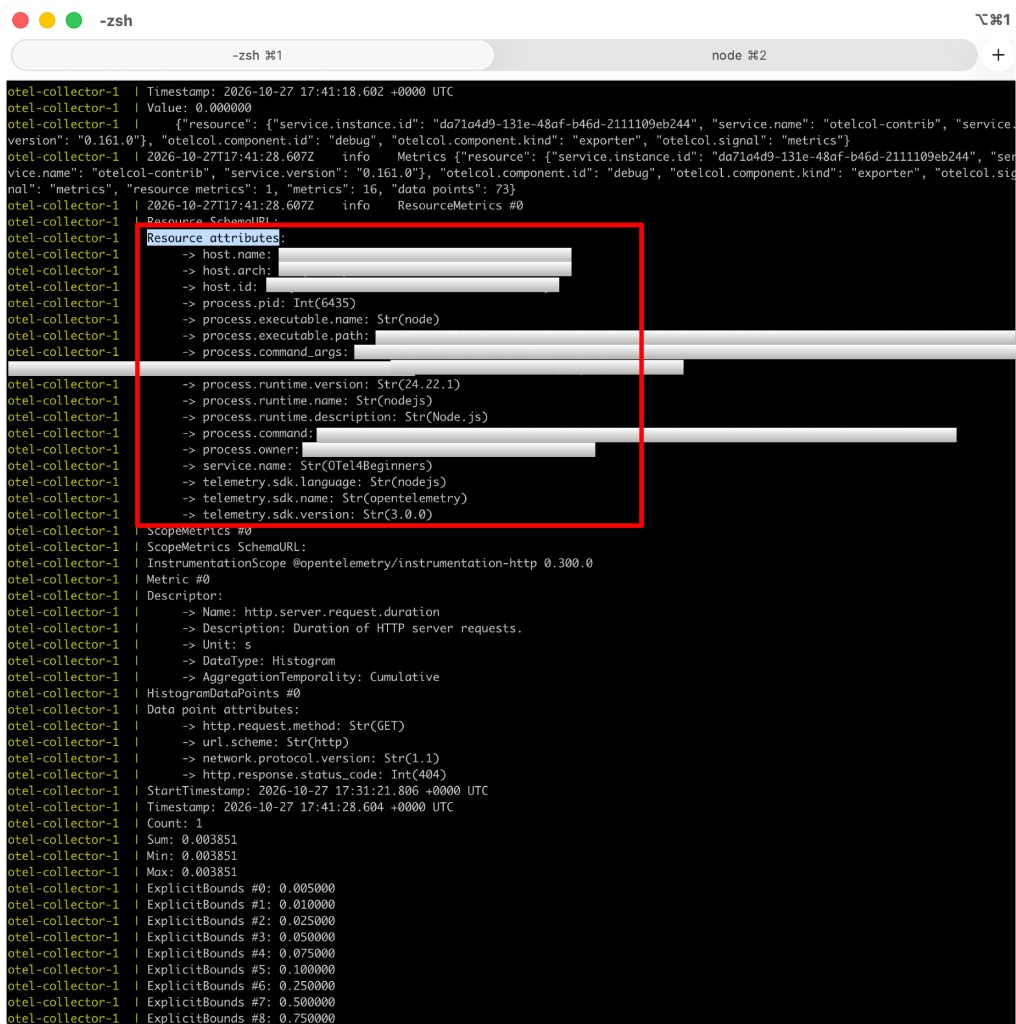
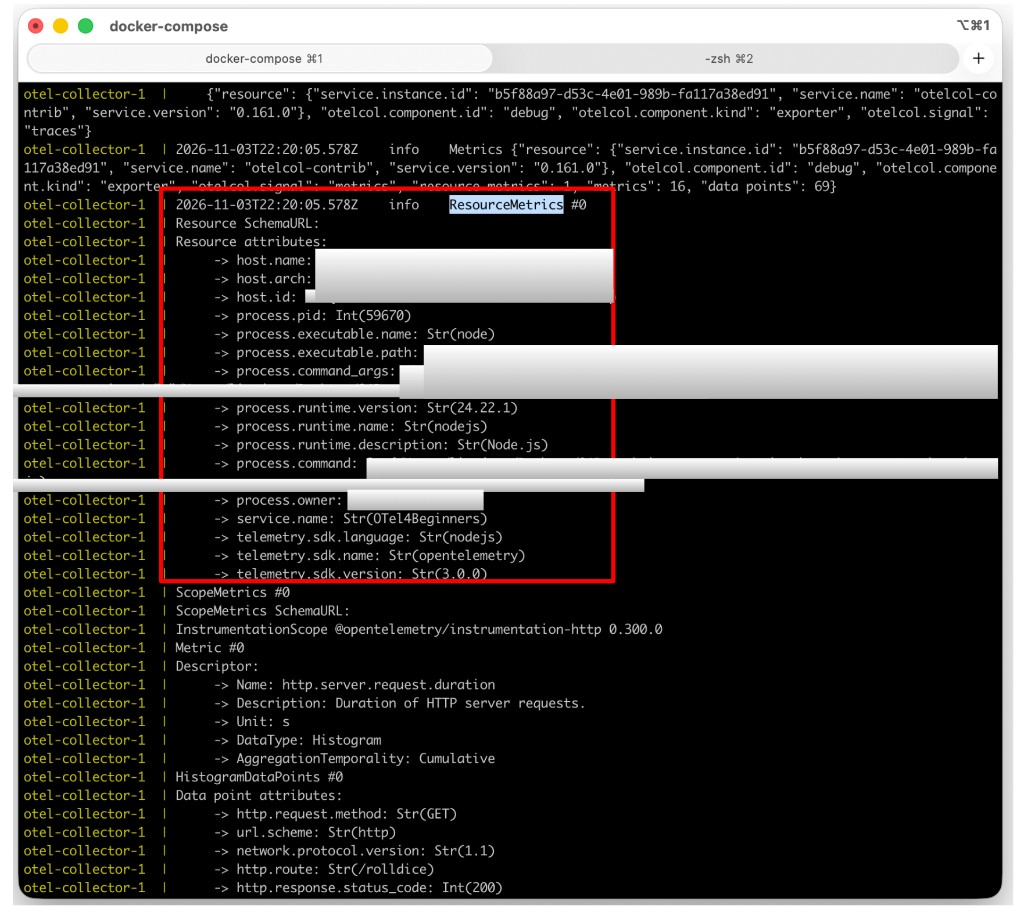
Search for ResourceMetrics and update the resource attributes screenshot

diff --git a/javascript/metrics/README.md b/javascript/metrics/README.md
@@ -395,11 +395,11 @@ Labels describe the requests themselves. **Resource attributes** describe someth
 
 We first met them with [traces](../traces/README.md#process-resource-attributes). They tell us about the service, host, and process behind our telemetry.
 
-Most of them don't show up as labels in Prometheus, so we'll find them in the Collector's debug output instead. In the terminal running Docker, search for `Resource attributes`.
+Most of them don't show up as labels in Prometheus, so we'll find them in the Collector's debug output instead. In the terminal running Docker, search for `ResourceMetrics`. The resource attributes for our metrics are listed right below it.
 
 The output moves fast, so here's a screenshot to follow along with:
 
-<img width="1016" height="1024" alt="Collector debug output in the Docker terminal, with the Resource attributes block for our metrics highlighted and host and process values blurred" src="images/collector-resource-attributes.png" />
+<img width="1024" height="912" alt="Collector debug output in the Docker terminal, with the Resource attributes block for our metrics highlighted and host and process values blurred" src="images/collector-resource-attributes.png" />
 
 A few of these are genuinely useful. `service.name`, for example, tells us which service sent the data.
 
